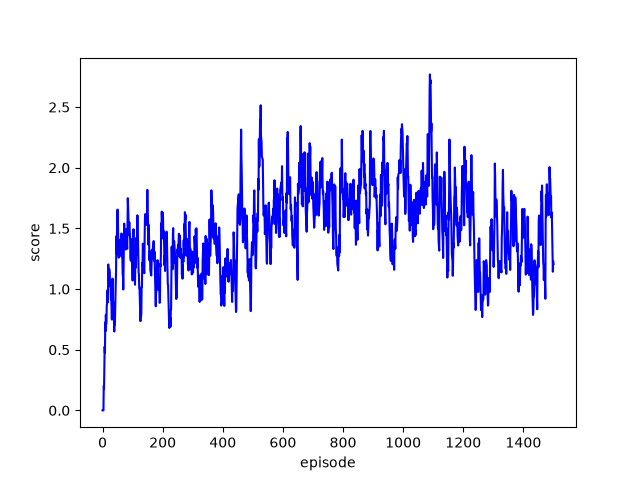
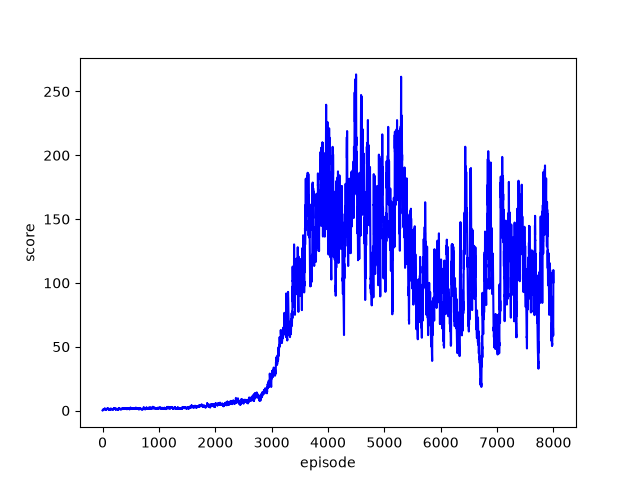
add: trained and tested model.

diff --git a/test_gpu.py b/test_gpu.py
@@ -1,0 +1,98 @@
+from src import CDQN
+import torch
+import torch.nn as nn
+import torch.optim as optim
+import numpy as np
+from collections import deque
+import random
+import gymnasium
+import ale_py
+from gymnasium.wrappers import RecordVideo
+import pylab
+import cv2
+
+device = torch.device("cuda" if torch.cuda.is_available() else "cpu")
+
+
+class CDQNagent:
+    def __init__(self, state_size, action_size):
+        self.state_size = state_size
+        self.action_size = action_size
+
+        self.model = CDQN(self.state_size, self.action_size).to(device)
+        self.history_len = 4
+        self.epsilon = 0.05  # 테스트에서도 작은 epsilon (같은 동작 무한 반복 방지)
+
+    def get_action(self, state):
+        if np.random.rand() < self.epsilon:
+            return random.randrange(0, self.action_size)
+        x = torch.as_tensor(state, device=device).float() / 255.0
+        with torch.no_grad():
+            return self.model(x).argmax(dim=1).item()
+
+    def pre_processing(self, state):
+        # obs_type="grayscale"이라 (210, 160) 흑백이 바로 들어옴 → 84x84로 리사이즈만
+        return cv2.resize(state, (84, 84), interpolation=cv2.INTER_AREA)
+
+
+if __name__ == "__main__":
+    gymnasium.register_envs(ale_py)
+    env = gymnasium.make(
+        "ALE/Breakout-v5",
+        frameskip=4,  # 여기서 frame_skip 미리 때렸다.
+        repeat_action_probability=0.0,
+        obs_type="grayscale",  # 학습과 같은 전처리
+        render_mode="human",
+    )
+
+    agent = CDQNagent(state_size=4, action_size=3)
+    agent.model.load_state_dict(
+        torch.load("./save_model/model_gpu.pt", map_location=device, weights_only=True)
+    )
+    agent.model.eval()
+
+    EPISODE = 5
+    for e in range(EPISODE):
+        state = env.reset()
+        lives = state[1]["lives"]
+        state = agent.pre_processing(state[0])
+        history = np.stack((state, state, state, state))[np.newaxis]
+
+        dead = True
+        done = False
+        score = 0
+        while not done:
+            action = agent.get_action(history)
+            real_action = action + 1
+
+            if dead:
+                action = 0
+                real_action = 1
+                dead = False
+
+            next_state, reward, terminated, truncated, info = env.step(real_action)
+            done = terminated or truncated
+            next_state = agent.pre_processing(next_state)
+            next_history = np.append(
+                next_state[np.newaxis][np.newaxis],
+                history[:, :3, :, :],
+                axis=1,
+            )
+
+            if lives > info["lives"]:
+                dead = True
+                lives = info["lives"]
+
+            score += reward
+
+            if dead:
+                history = np.stack((next_state, next_state, next_state, next_state))[
+                    np.newaxis
+                ]
+            else:
+                history = next_history
+
+            if done:
+                print(f"episode {e} | score {score}")
+
+    env.close()

diff --git a/train_gpu.py b/train_gpu.py
@@ -127,7 +127,7 @@ if __name__ == "__main__":
 
     agent = CDQNagent(state_size=4, action_size=3)
     scores, episodes = [], []
-    EPISODE = 50000
+    EPISODE = 15000
     step = 0
     score_avg = 0
     for e in range(EPISODE):
